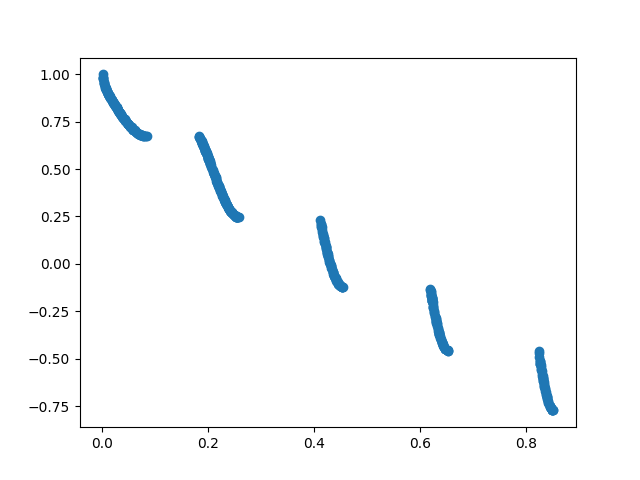
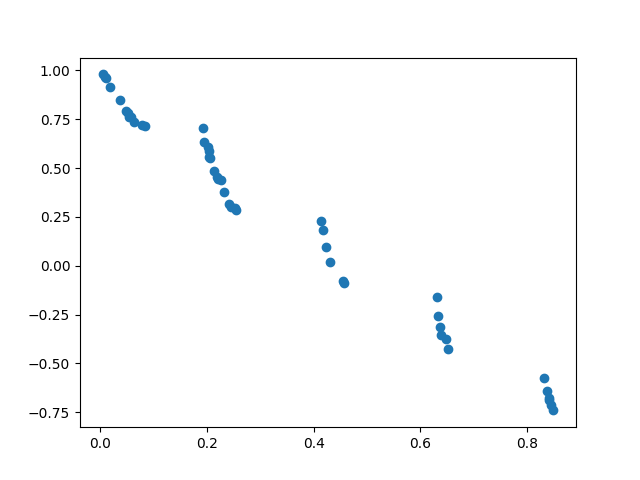
moead

diff --git a/MOEA:D/moead-code/moead.py b/MOEA:D/moead-code/moead.py
@@ -75,6 +75,45 @@ class MOEAD:
         self.population = population
         return population
 
+    def fast_nondominated_sort(self, population):
+        population_size = len(population)
+        S = []   # 存储每个个体所支配的个体
+        n = np.zeros(shape=population_size)   # 存储每个个体的被支配数
+        fronts_idx = [[]]
+        for i in range(population_size):
+            S_p = []
+            n[i] = 0
+            for j in range(population_size):
+                if i == j:
+                    continue
+                if population[i].dominate(population[j]):
+                    S_p.append(j)
+                elif population[j].dominate(population[i]):
+                    n[i] += 1
+            S.append(S_p)
+            if n[i] == 0:
+                population[i].rank = 0
+                fronts_idx[0].append(i)
+
+        i = 0
+        while len(fronts_idx[i]) > 0:
+            Q = []
+            for p in fronts_idx[i]:
+                for q in S[p]:
+                    n[q] -= 1
+                    if n[q] == 0:
+                        population[q].rank = i + 1
+                        Q.append(q)
+            i += 1
+            fronts_idx.append(Q)
+        fronts_idx.pop()
+
+        fronts = []
+        for rank in fronts_idx:
+            rank_individuals = [population[idx] for idx in rank]
+            fronts.append(rank_individuals)
+        return fronts
+
     # 初始化参考点
     def init_reference_points(self):
         Z = np.full(shape=self.m, fill_value=float('inf'))
@@ -111,7 +150,7 @@ class MOEAD:
         # print("交叉后child2_genes:", child2_genes)
         child1 = self.generate_individual(child1_genes)
         child2 = self.generate_individual(child2_genes)
-        return child1, child2
+        return child1
 
     # 变异操作
     def mutation(self, individual, variables_range):
@@ -137,26 +176,25 @@ class MOEAD:
         return Z
 
     def update_EP(self, new_individual):
-        accept_new = True
-        for i in range(len(self.EP) - 1, -1, -1):
-            individual = self.EP[i]
-            new_dominate_old = True
-            old_dominate_new = True
-            for j in range(len(self.objective_functions)):
-                if individual.fitness[j] < new_individual.fitness[j]:
-                    new_dominate_old = False
-                if individual.fitness[j] > new_individual.fitness[j]:
-                    old_dominate_new = False
-            if old_dominate_new:
-                accept_new = False
-                break
-            if not old_dominate_new and new_dominate_old:
-                del self.EP[i]
-                continue
-        if accept_new:
+        if self.EP != []:
+            i = 0
+            while (i < len(self.EP)):
+                if (new_individual.dominate(self.EP[i])):
+                    del self.EP[i]
+                    i -= 1
+                i += 1
+            accept_new = True
+            for individual in self.EP:
+                if (individual.dominate(new_individual) or (individual.fitness == new_individual.fitness).all()):
+                    accept_new = False
+                    break
+            if accept_new:
+                self.EP.append(new_individual)
+        else:
             self.EP.append(new_individual)
 
         return self.EP
+
 
 
 

diff --git a/MOEA:D/moead-code/evolution.py b/MOEA:D/moead-code/evolution.py
@@ -4,7 +4,7 @@ from problem.zdt3 import get_zdt3_params
 from problem.zdt4 import get_zdt4_params
 
 # 参数获取
-objective_functions, variables_range = get_zdt4_params()
+objective_functions, variables_range = get_zdt3_params()
 genes_size = len(variables_range)
 crossover_prob = 1
 mutation_prob = float(format(1 / genes_size, '.3f'))
@@ -13,7 +13,7 @@ iterations = 1000
 
 H = 249
 m = 2
-T = 10
+T = 20
 
 moead = MOEAD(H, m, T, genes_size, mutation_prob, objective_functions, variables_range)
 
@@ -21,26 +21,22 @@ moead.init_weight_vectors()
 moead.init_Euler_distance()
 population = moead.generate_initial_population()
 moead.init_reference_points()
+fronts = moead.fast_nondominated_sort(population)
+moead.EP = fronts[0]
 
 def evolve():
     for i in range(iterations):
-        print('第', i, '次迭代时，EP大小为：', len(moead.EP))
+        print('第', i + 1, '次迭代时，EP大小为：', len(moead.EP))
         for individual in population:
             parent1, parent2 = moead.selection(individual)
-            child1, child2 = moead.crossover(parent1, parent2)
+            child1 = moead.crossover(parent1, parent2)
             moead.mutation(child1, variables_range)
-            moead.mutation(child2, variables_range)
             moead.update_z(child1)
-            moead.update_z(child2)
             for neighbor in individual.neighbors:
                 if moead.compare_gte(child1, neighbor) <= 0:
                     neighbor.genes = child1.genes
                     neighbor.fitness = child1.fitness
-                if moead.compare_gte(child2, neighbor) <= 0:
-                    neighbor.genes = child2.genes
-                    neighbor.fitness = child2.fitness
             moead.update_EP(child1)
-            moead.update_EP(child2)
 
 evolve()
 
@@ -52,7 +48,7 @@ for i in moead.EP:
     function2.append(individual_fitness[1])
 
 plt.scatter(function1, function2)
-plt.savefig('./pictures/zdt4.png')
+plt.savefig('./pictures/zdt3.png')
 plt.show()
 
 

diff --git a/MOEA:D/moead-code/Individual.py b/MOEA:D/moead-code/Individual.py
@@ -5,10 +5,22 @@ class Individual:
     def __init__(self):
         self.genes = None
         self.genes_size = None
+        self.rank = None
         self.fitness = None
         self.weight_vector = None
         self.neighbors = None
         self.objective_functions = None
+
+    def dominate(self, individual2):
+        individual1 = self
+        first_condition = True
+        second_condition = False
+        for i in range(len(individual1.fitness)):
+            if individual1.fitness[i] > individual2.fitness[i]:
+                first_condition = False
+            elif individual1.fitness[i] < individual2.fitness[i]:
+                second_condition = True
+        return first_condition and second_condition
 
     # 获取适应值
     def get_fitness(self, objective_functions):
